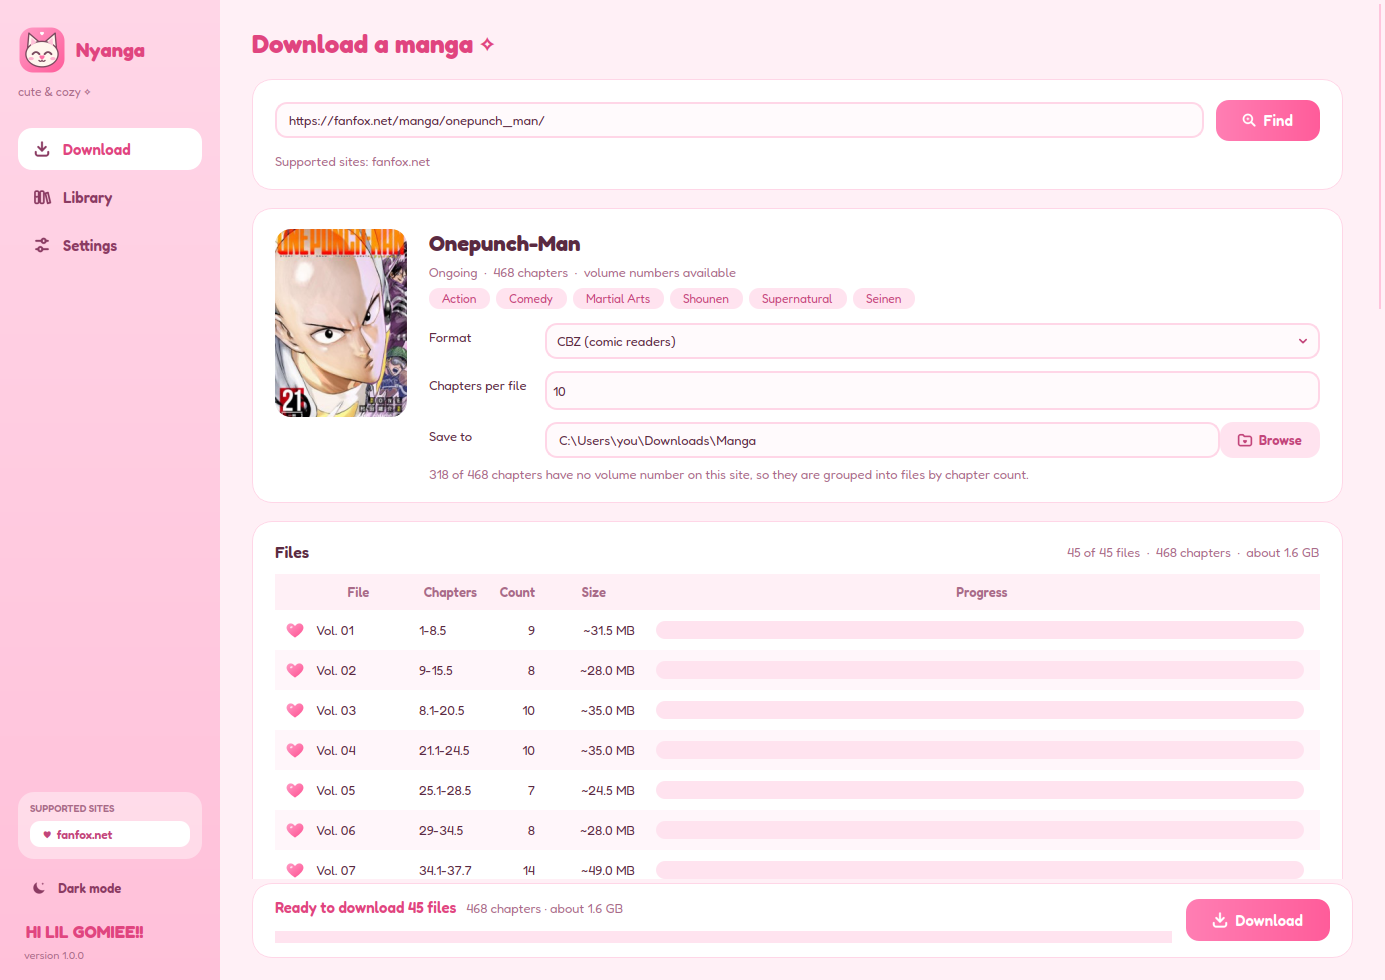
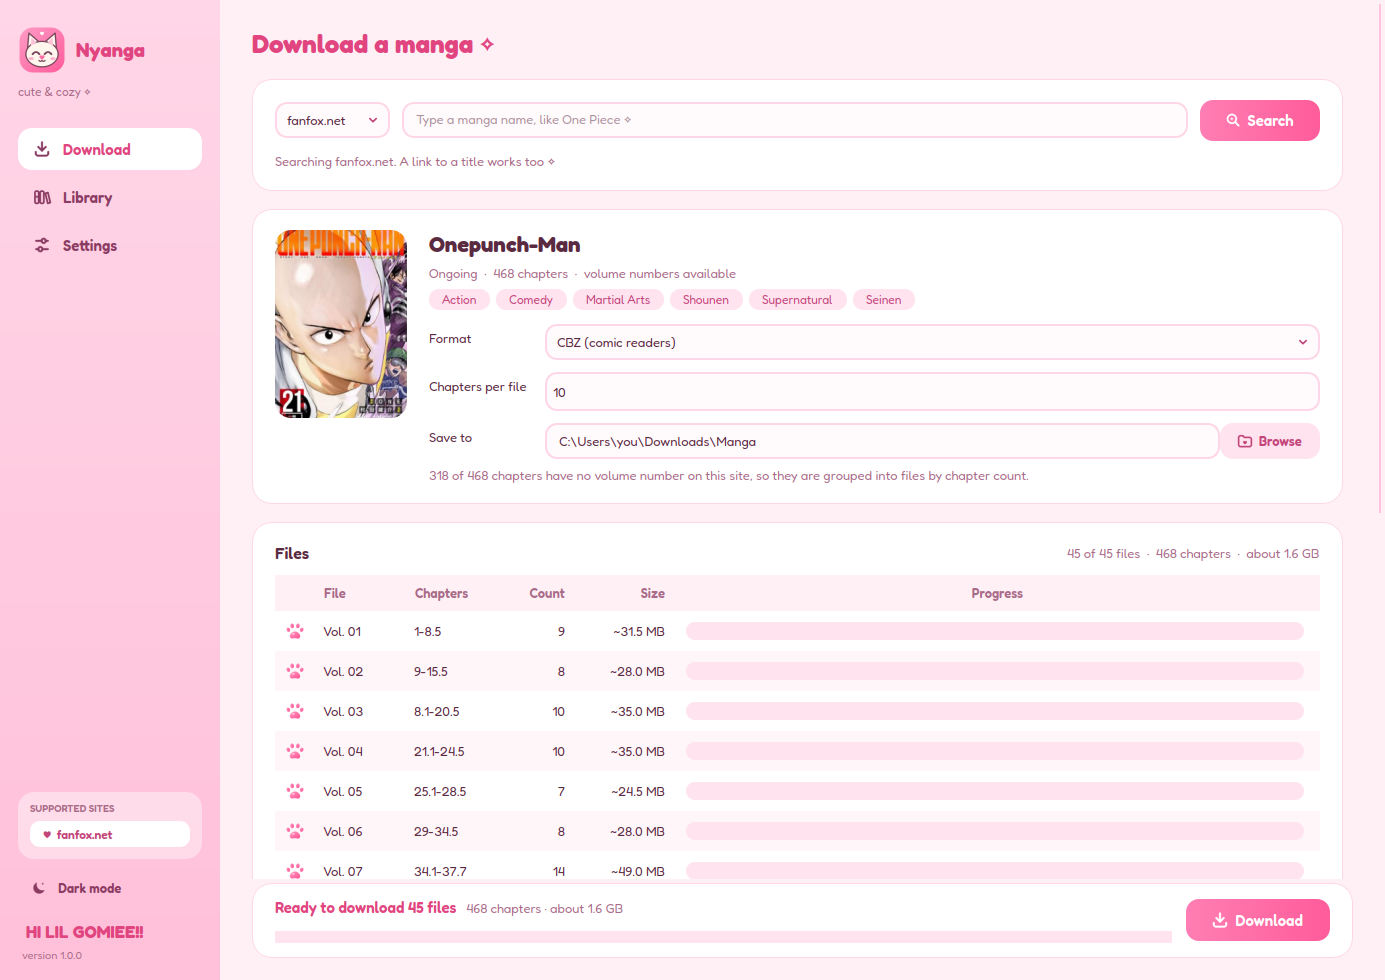
feat: sort the file list by tapping a column
Tap once for up, twice for down, a third time or right-click to go back to normal. Column titles
now line up with their columns.

diff --git a/gui.py b/gui.py
@@ -14,7 +14,7 @@ from pathlib import Path
 
 import requests
 from PySide6.QtCore import QCoreApplication, QEasingCurve, QEvent, QObject, QPropertyAnimation, QRectF, QSize, Qt, QTimer, QUrl, Signal
-from PySide6.QtGui import QColor, QDesktopServices, QFont, QGuiApplication, QPainter, QPainterPath, QPixmap
+from PySide6.QtGui import QColor, QDesktopServices, QFont, QFontMetrics, QGuiApplication, QPainter, QPainterPath, QPen, QPixmap
 from PySide6.QtWidgets import (
     QAbstractItemView, QApplication, QStyledItemDelegate, QButtonGroup, QCheckBox, QComboBox, QDoubleSpinBox, QFileDialog,
     QFormLayout, QFrame, QGraphicsDropShadowEffect, QGridLayout, QGraphicsOpacityEffect, QHBoxLayout, QHeaderView, QLabel, QLineEdit, QListView,
@@ -231,6 +231,7 @@ def folder_row(edit: QLineEdit, title: str) -> QHBoxLayout:
 # --------------------------------------------------------------------------- download page
 
 
+HEADERS = ["", "File", "Chapters", "Count", "Size", "Progress"]
 LOADING = Qt.UserRole + 1  # item flag: draw the little cat instead of text
 
 
@@ -374,6 +375,9 @@ class DownloadPage(QWidget):
         self.site = None
         self.info: core.MangaInfo | None = None
         self.groups: list[core.Group] = []
+        self.bars: list[QProgressBar] = []  # one per file, in self.groups order
+        self.order: list[int] = []  # file shown in each table row
+        self.row_of: list[int] = []  # table row of each file
         self.cancel = threading.Event()
         self.running = False
         self.fractions: dict[int, float] = {}
@@ -506,7 +510,10 @@ class DownloadPage(QWidget):
         head.addWidget(self.summary_wait)
         tl.addLayout(head)
         self.table = QTableWidget(0, 6)
-        self.table.setHorizontalHeaderLabels(["", "File", "Chapters", "Count", "Size", "Progress"])
+        self.table.setHorizontalHeader(SortHeader())
+        self.table.setHorizontalHeaderLabels(HEADERS)
+        for c, side in ((1, Qt.AlignLeft), (2, Qt.AlignLeft), (3, Qt.AlignRight), (4, Qt.AlignRight), (5, Qt.AlignCenter)):
+            self.table.horizontalHeaderItem(c).setTextAlignment(side | Qt.AlignVCenter)  # line up with the cells
         self.table.verticalHeader().hide()
         self.table.setAlternatingRowColors(True)
         self.table.setShowGrid(False)
@@ -516,6 +523,14 @@ class DownloadPage(QWidget):
         self.table.setVerticalScrollBarPolicy(Qt.ScrollBarAlwaysOff)
         self.table.setHorizontalScrollBarPolicy(Qt.ScrollBarAlwaysOff)
         hh = self.table.horizontalHeader()
+        # Tap a column to sort by it: ascending, descending, then back to normal. Right-click clears it.
+        self.sort: tuple[int, bool] | None = None  # (column, descending)
+        hh.setSectionsClickable(True)
+        hh.setCursor(Qt.PointingHandCursor)
+        hh.setToolTip("Tap to sort ✧ right-click to unsort")
+        hh.sectionClicked.connect(self._sort_clicked)
+        hh.setContextMenuPolicy(Qt.CustomContextMenu)
+        hh.customContextMenuRequested.connect(lambda *_: self._set_sort(None))
         hh.setSectionResizeMode(QHeaderView.ResizeToContents)
         hh.setSectionResizeMode(5, QHeaderView.Stretch)
         self.table.setItemDelegateForColumn(4, CatDelegate(self.table))
@@ -821,7 +836,9 @@ class DownloadPage(QWidget):
         self.meta_lbl.setText(f"{status}{len(self.info.chapters)} chapters  ·  "
                               f"{'volume numbers available' if vols else 'no volume numbers'}")
         self.table.blockSignals(True)
+        self.table.setRowCount(0)  # fresh rows; the old progress bars go with them
         self.table.setRowCount(len(self.groups))
+        self.bars = []
         for i, g in enumerate(self.groups):
             check = QTableWidgetItem()
             check.setFlags(Qt.ItemIsUserCheckable | Qt.ItemIsEnabled)
@@ -837,11 +854,8 @@ class DownloadPage(QWidget):
             self.table.setItem(i, 4, size)
             bar = QProgressBar(maximum=1000, value=0, format="")
             bar.setFixedHeight(18)
-            holder = QWidget()
-            hl = QHBoxLayout(holder)
-            hl.setContentsMargins(6, 0, 10, 0)
-            hl.addWidget(bar)
-            self.table.setCellWidget(i, 5, holder)
+            self.table.setCellWidget(i, 5, bar_holder(bar))
+            self.bars.append(bar)
         self.table.blockSignals(False)
         self.order = list(range(len(self.groups)))
         self.row_of = list(self.order)
@@ -856,6 +870,151 @@ class DownloadPage(QWidget):
         self._mark_history()
         self._fill_sizes()
         self._update_summary()
+
+    def _sort_clicked(self, column: int) -> None:
+        if not self.sort or self.sort[0] != column:
+            self._set_sort((column, False))
+        elif not self.sort[1]:
+            self._set_sort((column, True))
+        else:
+            self._set_sort(None)
+
+    def _set_sort(self, sort: tuple[int, bool] | None) -> None:
+        self.sort = sort
+        self.table.horizontalHeader().sort = sort
+        self.table.horizontalHeader().viewport().update()
+        self._apply_sort()
+        self._show_page(0)
+
+    def _sort_key(self, column: int, row: int):
+        group = self.groups[row]
+        if column == 0:
+            return self._item(row, 0).checkState() != Qt.Checked  # ticked first
+        if column in (3, 4):
+            return len(group.chapters)  # sizes are estimated from the chapter count
+        if column == 5:
+            bar = self._bar(row)
+            return -1 if bar.property("state") == core.FAILED else bar.value()
+        return row  # File and Chapters: the normal order
+
+    def _apply_sort(self) -> None:
+        """Move each file's cells to its sorted table row. Elsewhere a "row" is the file's index in
+        self.groups, whatever its place on screen; self.order and self.row_of map between the two."""
+        order = list(range(len(self.groups)))
+        if self.sort:
+            column, descending = self.sort
+            order.sort(key=lambda g: self._sort_key(column, g), reverse=descending)
+        if order == self.order:
+            return
+        cells = {g: [self.table.takeItem(r, c) for c in range(5)] for r, g in enumerate(self.order)}
+        holders = [bar_holder(self.bars[g]) for g in order]  # takes the bars out of their old cells first
+        self.table.blockSignals(True)
+        for r, g in enumerate(order):
+            for c, item in enumerate(cells[g]):
+                self.table.setItem(r, c, item)
+            self.table.setCellWidget(r, 5, holders[r])
+        self.table.blockSignals(False)
+        self.order = order
+        self.row_of = [0] * len(order)
+        for r, g in enumerate(order):
+            self.row_of[g] = r
+
+    def _item(self, row: int, column: int) -> QTableWidgetItem:
+        """The cell of file `row` (an index into self.groups), wherever sorting put it."""
+        return self.table.item(self.row_of[row], column)
+
+    def _show_page(self, page: int) -> None:
+        """Show one page of files; the rest stay in the table, just hidden."""
+        size = self.settings.files_per_page
+        pages = max(1, -(-self.table.rowCount() // size))
+        self.page = min(max(0, page), pages - 1)
+        first = self.page * size
+        shown = range(first, min(first + size, self.table.rowCount()))
+        for i in range(self.table.rowCount()):
+            self.table.setRowHidden(i, i not in shown)
+        last = first + len(shown)
+        self.page_lbl.setText(f"Page {self.page + 1} of {pages}  ·  files {first + 1}–{last}")
+        self.prev_btn.setEnabled(self.page > 0)
+        self.next_btn.setEnabled(self.page < pages - 1)
+        for w in (self.prev_btn, self.page_lbl, self.next_btn):
+            w.setVisible(pages > 1)
+        # Fit the shown rows exactly; the page itself scrolls, so the table never needs its own scrollbar.
+        rows_h = sum(self.table.rowHeight(i) for i in shown)
+        self.table.setFixedHeight(self.table.horizontalHeader().height() + rows_h + 4)
+        if self.groups:
+            self._update_summary()  # the Select page button follows the page
+
+    def _toggle_all(self) -> None:
+        everything = len(self._checked_rows()) == self.table.rowCount()
+        self._check(lambda i: not everything)
+
+    def _page_files(self) -> list[int]:
+        return [self.order[r] for r in range(self.table.rowCount()) if not self.table.isRowHidden(r)]
+
+    def _toggle_page(self) -> None:
+        files = self._page_files()
+        self._set_checks(files, not all(self._ticked(i) for i in files))
+
+    def _select_range(self) -> None:
+        low, high = sorted((self.range_from.value(), self.range_to.value()))
+        # high + 1 so "to 10" includes 10.5; a file counts if any of its chapters is in the range
+        self._check(lambda i: any(low <= c.number < high + 1 for c in self.groups[i].chapters))
+
+    def _ticked(self, row: int) -> bool:
+        return self._item(row, 0).checkState() == Qt.Checked
+
+    def _set_checks(self, rows, ticked: bool) -> None:
+        self.table.blockSignals(True)
+        for i in rows:
+            self._item(i, 0).setCheckState(Qt.Checked if ticked else Qt.Unchecked)
+        self.table.blockSignals(False)
+        self._update_summary()
+
+    def eventFilter(self, obj, event) -> bool:
+        """Paws: click to toggle, shift-click to set everything since the last click, drag to paint."""
+        if obj is not self.table.viewport() or self.running or not self.groups:
+            return super().eventFilter(obj, event)
+        kind = event.type()
+        if kind in (QEvent.MouseButtonPress, QEvent.MouseButtonDblClick) and event.button() == Qt.LeftButton:
+            pos = event.position().toPoint()
+            row = self.table.rowAt(pos.y())
+            if row < 0 or self.table.columnAt(pos.x()) != 0:
+                return super().eventFilter(obj, event)
+            file = self.order[row]
+            if event.modifiers() & Qt.ShiftModifier and self.anchor is not None:
+                low, high = sorted((self.row_of[self.anchor], row))
+                self._set_checks([self.order[r] for r in range(low, high + 1)], self._ticked(self.anchor))
+            else:
+                self.drag_state = not self._ticked(file)
+                self.anchor = file
+                self._set_checks([file], self.drag_state)
+            return True
+        if kind == QEvent.MouseMove and self.drag_state is not None:
+            row = self.table.rowAt(event.position().toPoint().y())
+            if row >= 0 and self._ticked(self.order[row]) != self.drag_state:
+                self._set_checks([self.order[row]], self.drag_state)
+            return True
+        if kind == QEvent.MouseButtonRelease and self.drag_state is not None:
+            self.drag_state = None
+            return True
+        return super().eventFilter(obj, event)
+
+    def _update_smart(self) -> None:
+        """Counts for the New / Not downloaded / Failed quick picks."""
+        entry = self.history.get(self.key) or {}
+        downloaded, failed = entry.get("downloaded", {}), set(entry.get("failed", []))
+        self.smart = {"new": [], "missing": [], "failed": []}
+        for i, g in enumerate(self.groups):
+            keys = group_keys(g)
+            if self.new_keys & set(keys):
+                self.smart["new"].append(i)
+            if not all(k in downloaded for k in keys):
+                self.smart["missing"].append(i)
+            if failed & set(keys):
+                self.smart["failed"].append(i)
+        for kind, name in (("new", "New ✧"), ("missing", "Not downloaded"), ("failed", "Failed")):
+            self.smart_btns[kind].setText(f" {name} ({len(self.smart[kind])})")
+            self.smart_btns[kind].setEnabled(bool(self.smart[kind]) and not self.running)
 
     def _mark_history(self) -> None:
         """Show what is already downloaded, failed last time or new, and untick finished files."""
@@ -873,7 +1032,7 @@ class DownloadPage(QWidget):
                 bar.setValue(1000)
                 bar.setFormat("Downloaded ✓")
                 state = core.DONE
-                self.table.item(i, 0).setCheckState(Qt.Unchecked)
+                self._item(i, 0).setCheckState(Qt.Unchecked)
             elif have:
                 bar.setValue(int(have / len(keys) * 1000))
                 bar.setFormat(f"{have} of {len(keys)} chapters downloaded")
@@ -887,15 +1046,15 @@ class DownloadPage(QWidget):
         self.table.blockSignals(False)
 
     def _bar(self, row: int) -> QProgressBar:
-        return self.table.cellWidget(row, 5).findChild(QProgressBar)
+        return self.bars[row]
 
     def _checked_rows(self) -> list[int]:
-        return [i for i in range(self.table.rowCount()) if self.table.item(i, 0).checkState() == Qt.Checked]
+        return [i for i in range(len(self.groups)) if self._item(i, 0).checkState() == Qt.Checked]
 
     def _check(self, rule) -> None:
         self.table.blockSignals(True)
-        for i in range(self.table.rowCount()):
-            self.table.item(i, 0).setCheckState(Qt.Checked if rule(i) else Qt.Unchecked)
+        for i in range(len(self.groups)):
+            self._item(i, 0).setCheckState(Qt.Checked if rule(i) else Qt.Unchecked)
         self.table.blockSignals(False)
         self._update_summary()
 
@@ -934,7 +1093,7 @@ class DownloadPage(QWidget):
         """Estimated download size of each file: the average chapter size times its chapters."""
         self.table.blockSignals(True)
         for i, g in enumerate(self.groups):
-            item = self.table.item(i, 4)
+            item = self._item(i, 4)
             item.setData(LOADING, self.estimating)
             if self.estimating:
                 text = ""

diff --git a/theme.py b/theme.py
@@ -156,7 +156,7 @@ QTableWidget {
     selection-background-color: $selection; selection-color: $text;
 }
 QTableWidget::item { padding: 4px 6px; }
-QHeaderView::section { background: $header; color: $muted; border: none; padding: 8px 6px; font-weight: 600; }
+QHeaderView::section { background: $header; color: $muted; border: none; padding: 8px 9px 8px 10px; font-weight: 600; }
 QProgressBar {
     background: $track; border: none; border-radius: 9px;
     text-align: center; color: $side_text; font-size: 11px; font-weight: 600;

diff --git a/CLAUDE.md b/CLAUDE.md
@@ -115,8 +115,14 @@ Python 3.10+. Dependencies: requests, pillow, img2pdf, PySide6. There are no tes
 - Keep `core.py` and `builders.py` free of Qt: they are pickled/run in a process pool. Site
   objects must stay picklable (see `FanFox.__getstate__` dropping the thread-local session).
 - Worker threads talk to the GUI only through Qt signals (`Bridge`, `LibraryBridge`).
-- Adding a site: write a class like `FanFox` (`name`, `example`, `url_re`, chapter/image
-  fetching) and append it to `SITES` in `core.py`.
+- In `DownloadPage`, a "row" means a file's index in `self.groups`, not its table row: sorting
+  moves cells around. Reach cells with `_item(row, col)` and bars with `_bar(row)`; `order` and
+  `row_of` map between the two. (Qt's `moveSection` was tried and paints blank rows with paging.)
+  Paw clicks (toggle, shift-click, drag) go through `DownloadPage.eventFilter`; the check items
+  are deliberately not `ItemIsUserCheckable`.
+- Adding a site: write a class like `FanFox` (`name`, `example`, `url_re`, a `search(query,
+  limiter)` classmethod returning `SearchResult`s, chapter/image fetching) and append it to
+  `SITES` in `core.py`. It then shows up in the source pickers on the Download and Settings pages.
 - New colors go in both palettes in `theme.py`; use `theme.color(mode, name)` rather than
   hard-coded colors so light/dark both work.
 - New settings: add a field to the `Settings` dataclass (old `settings.json` files without it
